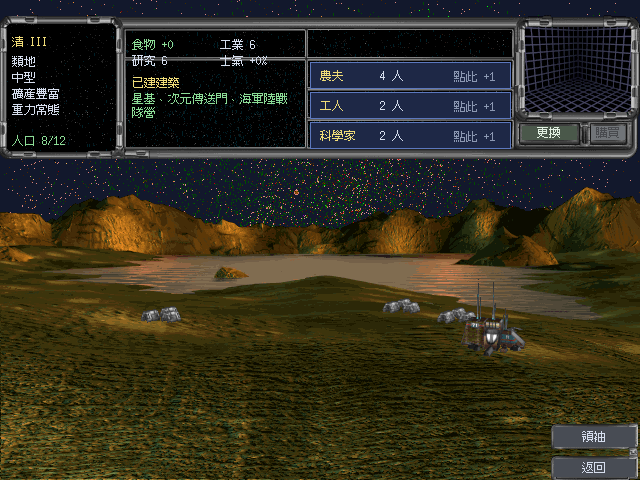
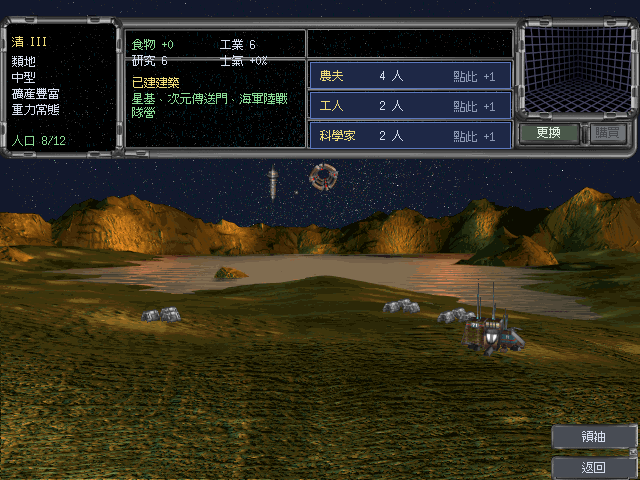
feat(colony): 軌道衛星畫上去了——資產編號那個 +9 漏了會靜默空白
分類 7 的建築(星基 / 戰鬥站 / 星際要塞 / 次元傳送門 / 天網)不進地表格點,
原版把它們丟進 word_19F99C 那份 10 格的清單,由 Draw_Colony_Satellites_
@ 0xBE366 另外畫在軌道上。remake 先前完全沒畫——這顆星有星基與次元傳送門,
畫面上看不到任何東西。

位置整段沒有查表:
    x = 295 + (i 偶數 ? +1 : −1) × i × 50
    y = 162
→ 295 / 245 / 395 / 145 …往兩側交錯。第 7 顆 x = −55 只剩右緣 2px,
所以清單雖有 10 格,看得到的就是前 7 顆(原版本來的裁切)。

⚠ 圖檔編號要經過 sub_BBB9F 的 `loc_BBBAF: add edx, 9`。sub_BE306 算出來的是
0/1/2/3/7,加 9 之後才是 COLONY.LBX 的 9/10/11/12/16。漏掉那個 +9 會去讀
資產 0..4 —— 那五格在檔案裡是零長度的(offset 表開頭六個值都是 0x800),
解出來是空圖,畫面什麼都不會出現而且不會報錯。測試直接把「資產必須落在
9..16」寫成斷言。

抑制規則 sub_BC21B 就是原版的星基 → 戰鬥站 → 星際要塞升級鏈:
星基被 colony+0x13E(戰鬥站)或 +0x15F(星際要塞)壓掉,戰鬥站被要塞壓掉。
0x136+id 是「有沒有這棟」的旗標陣列,兩個位移都對得起來。

順帶把調色盤鏈抽成 colonyBasePalette(buffer0 + colbldg):COLONY.LBX 的
衛星圖完全沒有內嵌盤,整組都得靠基底。

中文模式 17 張逐像素比對:只有殖民地畫面變了。

Changed region(s): [[0.3125, 0.3125, 0.7188, 0.4688], [0.2812, 0.375, 0.3125, 0.4062]]

diff --git a/cmd/moo2/colonysurface.go b/cmd/moo2/colonysurface.go
@@ -349,16 +349,7 @@ func (b *sceneBuilder) colonySurfacePlan(idx int) map[[2]int]int {
 	}
 
 	// 已建建築:依**原版編號順序**逐棟插入(原版的迴圈就是 id 0..48,不是玩家建造順序)。
-	has := map[int]bool{}
-	if idx < len(b.session.ColonyBuildings) {
-		for zh := range b.session.ColonyBuildings[idx] {
-			if bd, ok := gamedata.BuildingByNameZH(zh); ok {
-				if id, ok := origBuildingID[bd.NameEN]; ok {
-					has[id] = true
-				}
-			}
-		}
-	}
+	has := b.colonyOrigBuildingIDs(idx)
 	for id := 1; id <= 48; id++ {
 		if !has[id] || origBuildingCategory[id] == 7 {
 			continue // 分類 7 = 軌道衛星,不畫在地表
@@ -380,6 +371,22 @@ func (b *sceneBuilder) colonySurfacePlan(idx int) map[[2]int]int {
 		}
 	}
 	return plan
+}
+
+// colonyOrigBuildingIDs 把某殖民地已建的建築換成**原版編號**的集合。
+func (b *sceneBuilder) colonyOrigBuildingIDs(idx int) map[int]bool {
+	has := map[int]bool{}
+	if b.session == nil || idx < 0 || idx >= len(b.session.ColonyBuildings) {
+		return has
+	}
+	for zh := range b.session.ColonyBuildings[idx] {
+		if bd, ok := gamedata.BuildingByNameZH(zh); ok {
+			if id, ok := origBuildingID[bd.NameEN]; ok {
+				has[id] = true
+			}
+		}
+	}
+	return has
 }
 
 // colonyGridKey 把格陣索引換回 (a, b)。原版的元素位址是 `colony_bldgs[24×a + 4×b]`
@@ -499,7 +506,7 @@ func colonyTerrainVariant(star int) int {
 // drawColonyTerrain 畫地表兩層。取不到資產就整張留空(不再自畫格線佔位——
 // 原版地表上**沒有格線**,格點是隱形的)。
 func (b *sceneBuilder) drawColonyTerrain(dst *ebiten.Image, idx int) {
-	if im := b.colonyScreenImage(colTerrainSkyLBX, colTerrainSkyAsset); im != nil {
+	if im := b.colonyScreenImage(colTerrainSkyLBX, colTerrainSkyAsset, colonyBasePalette); im != nil {
 		dst.DrawImage(im, &ebiten.DrawImageOptions{})
 	}
 	sess := b.session
@@ -511,14 +518,17 @@ func (b *sceneBuilder) drawColonyTerrain(dst *ebiten.Image, idx int) {
 		return
 	}
 	asset := climate*colTerrainVariants + colonyTerrainVariant(sess.PlayerColonyStarIndex(idx))
-	if im := b.colonyScreenImage(colTerrainLBX, asset); im != nil {
+	if im := b.colonyScreenImage(colTerrainLBX, asset, colonyBasePalette); im != nil {
 		dst.DrawImage(im, &ebiten.DrawImageOptions{})
 	}
 }
 
-// colonyScreenImage 取一張整螢幕底圖並快取。調色盤走 buffer0 基底 + 該圖自己的內嵌範圍
-// (PLANETS 每張只帶 80 色,缺的要基底補,否則裂縫會變成一片洋紅)。
-func (b *sceneBuilder) colonyScreenImage(lbxName string, asset int) *ebiten.Image {
+// colonyScreenImage 解一張殖民地畫面用的圖並快取。
+//
+// 調色盤走「chain 當基底 + 該圖自己的內嵌範圍」:PLANETS 每張只帶 80 色,缺的要基底補,
+// 否則熔岩裂縫會變成一片洋紅(⚠ 與第 29 項那次的洋紅**不同原因**——那次是 index ≥ 0xF0)。
+// COLONY.LBX 的衛星圖完全沒有內嵌盤,整組都得靠 chain。
+func (b *sceneBuilder) colonyScreenImage(lbxName string, asset int, chain paletteChain) *ebiten.Image {
 	key := lbxName + ":" + strconv.Itoa(asset)
 	if im, hit := b.colBldgCache[key]; hit {
 		return im
@@ -528,12 +538,129 @@ func (b *sceneBuilder) colonyScreenImage(lbxName string, asset int) *ebiten.Imag
 	}
 	var img *ebiten.Image
 	if im, err := decodeAsset(b.res, lbxName, asset); err == nil && len(im.Frames) > 0 {
-		if pal, err := resolvePalette(b.res, im, paletteChain{{"buffer0.lbx", 0}}); err == nil {
+		if pal, err := resolvePalette(b.res, im, chain); err == nil {
 			img = ebiten.NewImageFromImage(im.Frames[0].ToRGBADropTranslucent(pal, im.KeyColor()))
 		}
 	}
 	b.colBldgCache[key] = img
 	return img
+}
+
+// colonyBasePalette 是殖民地畫面的調色盤基底:全域基底 + 殖民地美術那組。
+var colonyBasePalette = paletteChain{{"buffer0.lbx", 0}, {colChromePal, 0}}
+
+// --- 軌道衛星 ---
+//
+// 分類 7 的建築**不進地表格點**。`Make_Bldg_Array_For_Colony_` 把它們丟進 `word_19F99C`
+// 那份 10 格的清單(依建築編號遞增附加),由 `Draw_Colony_Satellites_` @ 0xBE366 另外畫。
+//
+// 位置(`Draw_Colony_Satellites_` 尾段,整段沒有查表):
+//
+//	x = 295 + (i 偶數 ? +1 : −1) × i × 50      ; 295 = 0x127、50 = 0x32
+//	y = 162                                    ; 0xA2,固定
+//	Draw(x, y, img)                            ; 左上角對位
+//
+// → 第 0 顆在 295、第 1 顆 245、第 2 顆 395、第 3 顆 145…往兩側交錯散開。
+// 第 7 顆起 x 已是負的(−55),原版清單雖有 10 格但實際塞得下約 7 顆。
+//
+// 圖檔(`sub_BE306` 的比較鏈 + `sub_BBB9F` 的 `loc_BBBAF: add edx, 9`):
+//
+//	⚠ 那個 **+9 不能漏**。`sub_BE306` 算出來的是 0/1/2/3/7,加 9 之後才是真正的資產編號。
+//	漏掉會去讀 COLONY.LBX 資產 0..4 —— 那五格在檔案裡是**零長度**的(offset 表全是 0x800),
+//	解出來是空圖,畫面上什麼都不會出現,而且不會報錯。
+//
+//	| 建築 | 編號 | sub_BE306 | COLONY.LBX 資產 |
+//	|---|---|---|---|
+//	| 星際要塞 Star Fortress | 41 | 0 | 9 |
+//	| 戰鬥站 Battlestation | 8 | 1 | 10 |
+//	| 星基 Star Base | 40 | 2 | 11 |
+//	| 次元傳送門 Dimensional Portal | 14 | 3 | 12 |
+//	| 天網 Artemis System Net | 3 | 7 | 16 |
+//
+// 資產 9..16 全是 57×70,尺寸自洽。
+//
+// 抑制規則(`sub_BC21B`,回傳 1 = 這顆不畫)——就是原版的**星基升級鏈**:
+//
+//	星基(40):有戰鬥站(colony+0x13E)或星際要塞(colony+0x15F)就不畫
+//	戰鬥站(8):有星際要塞就不畫
+//
+// (`0x136 + id` 是「這個殖民地有沒有這棟」的旗標陣列,0x136+8 = 0x13E、0x136+41 = 0x15F,
+// 兩個位移都對得起來。)
+const (
+	colonySatLBX   = "colony.lbx"
+	colonySatBaseX = 295
+	colonySatStepX = 50
+	colonySatY     = 162
+	colonySatSlots = 10 // word_19F99C 的長度(memset 20 bytes)
+)
+
+// origSatelliteAsset 分類 7 的建築編號 → COLONY.LBX 資產(已含 +9,見上方 ⚠)。
+var origSatelliteAsset = map[int]int{
+	41: 9,  // 星際要塞
+	8:  10, // 戰鬥站
+	40: 11, // 星基
+	14: 12, // 次元傳送門
+	3:  16, // 天網
+}
+
+// colonySatellites 回傳要畫的衛星編號,順序 = 建築編號遞增(原版迴圈的順序)。
+func (b *sceneBuilder) colonySatellites(idx int) []int {
+	return colonySatelliteList(b.colonyOrigBuildingIDs(idx))
+}
+
+// colonySatelliteX 回傳第 i 顆衛星的左上角 x(見上方公式)。
+func colonySatelliteX(i int) int {
+	if i%2 != 0 {
+		return colonySatBaseX - i*colonySatStepX
+	}
+	return colonySatBaseX + i*colonySatStepX
+}
+
+// colonySatelliteList 是 colonySatellites 的純函式部分(方便直接測抑制規則)。
+func colonySatelliteList(has map[int]bool) []int {
+	var out []int
+	for id := 1; id <= 48; id++ {
+		if !has[id] || origBuildingCategory[id] != 7 {
+			continue
+		}
+		switch id {
+		case 40: // 星基:被戰鬥站或星際要塞取代
+			if has[8] || has[41] {
+				continue
+			}
+		case 8: // 戰鬥站:被星際要塞取代
+			if has[41] {
+				continue
+			}
+		}
+		if len(out) >= colonySatSlots {
+			break
+		}
+		out = append(out, id)
+	}
+	return out
+}
+
+// drawColonySatellites 把衛星畫在軌道上。原版的次序是建築之後(`Draw_Colony_Screen_`:
+// `Draw_Colony_Bldgs` → `Draw_Colony_Satellites`)。
+func (b *sceneBuilder) drawColonySatellites(dst *ebiten.Image, idx int) {
+	for i, id := range b.colonySatellites(idx) {
+		asset, ok := origSatelliteAsset[id]
+		if !ok {
+			continue
+		}
+		x := colonySatelliteX(i)
+		if x <= -57 || x >= moo2ScreenW {
+			continue // 原版也是這樣被畫布裁掉,不特別處理
+		}
+		im := b.colonyScreenImage(colonySatLBX, asset, colonyBasePalette)
+		if im == nil {
+			continue
+		}
+		op := &ebiten.DrawImageOptions{}
+		op.GeoM.Translate(float64(x), colonySatY)
+		dst.DrawImage(im, op)
+	}
 }
 
 // colonyBuildingImage 取(建築編號, 格)對應的那張**已畫好位置**的 640×480 稀疏圖,

diff --git a/cmd/moo2/colonysurface_test.go b/cmd/moo2/colonysurface_test.go
@@ -353,3 +353,86 @@ func newSurfaceTestBuilder(t *testing.T) *sceneBuilder {
 	}
 	return &sceneBuilder{session: sess, lang: i18n.Traditional}
 }
+
+// --- 軌道衛星 ---
+
+// TestOrigSatelliteAssetsCoverEveryCategory7:分類 7 的建築編號與衛星圖對照要**互相涵蓋**。
+// 少一筆 → 那顆衛星在畫面上悄悄消失(不會報錯);多一筆 → 會去畫一棟其實在地表的建築。
+func TestOrigSatelliteAssetsCoverEveryCategory7(t *testing.T) {
+	for id := 1; id <= 48; id++ {
+		_, hasSprite := origSatelliteAsset[id]
+		isSat := origBuildingCategory[id] == 7
+		if isSat && !hasSprite {
+			t.Errorf("建築 %d 是分類 7 卻沒有衛星圖", id)
+		}
+		if hasSprite && !isSat {
+			t.Errorf("建築 %d 有衛星圖卻不是分類 7", id)
+		}
+	}
+	// ⚠ 資產編號含 `sub_BBB9F` 的 +9。少了它會去讀 COLONY.LBX 資產 0..4——
+	// 那五格在檔案裡是零長度的,解出來是空圖,畫面什麼都不會出現而且不會報錯。
+	for id, asset := range origSatelliteAsset {
+		if asset < 9 || asset > 16 {
+			t.Errorf("建築 %d 的衛星圖資產 %d 不在 9..16(是不是漏了 +9?)", id, asset)
+		}
+	}
+}
+
+// TestColonySatelliteUpgradeChain:星基 → 戰鬥站 → 星際要塞 的升級鏈,
+// 抄自 `sub_BC21B`(回傳 1 = 這顆不畫)。三顆同時存在時只該看到最高階那顆。
+func TestColonySatelliteUpgradeChain(t *testing.T) {
+	set := func(ids ...int) map[int]bool {
+		m := map[int]bool{}
+		for _, id := range ids {
+			m[id] = true
+		}
+		return m
+	}
+	eq := func(got []int, want ...int) bool {
+		if len(got) != len(want) {
+			return false
+		}
+		for i := range got {
+			if got[i] != want[i] {
+				return false
+			}
+		}
+		return true
+	}
+	cases := []struct {
+		name string
+		have map[int]bool
+		want []int
+	}{
+		{"只有星基", set(40), []int{40}},
+		{"星基+戰鬥站 → 只剩戰鬥站", set(40, 8), []int{8}},
+		{"星基+戰鬥站+要塞 → 只剩要塞", set(40, 8, 41), []int{41}},
+		{"星基+要塞(跳過戰鬥站)→ 只剩要塞", set(40, 41), []int{41}},
+		{"天網與傳送門不受升級鏈影響", set(3, 14, 40, 41), []int{3, 14, 41}},
+		{"地表建築不進清單", set(22, 35), nil},
+	}
+	for _, c := range cases {
+		if got := colonySatelliteList(c.have); !eq(got, c.want...) {
+			t.Errorf("%s:得到 %v,want %v", c.name, got, c.want)
+		}
+	}
+}
+
+// TestColonySatellitePositionsMatchOriginal:x = 295 + (i 偶數 ? +1 : −1) × i × 50。
+// 釘住前幾顆的絕對座標——寫錯正負或步距,衛星會擠成一團或飛出畫面。
+func TestColonySatellitePositionsMatchOriginal(t *testing.T) {
+	want := []int{295, 245, 395, 145, 495, 45, 595, -55}
+	for i, w := range want {
+		if got := colonySatelliteX(i); got != w {
+			t.Errorf("第 %d 顆 x = %d,want %d", i, got, w)
+		}
+	}
+	// 第 7 顆在 x = −55,57 寬的圖只剩右緣 2px 在畫面內;第 8 顆 x = 695 整個在右外。
+	// 原版清單雖有 10 格,實際看得到的就是前 7 顆——這是原版本來的裁切,不特別處理。
+	if x := colonySatelliteX(7); x+57 > 5 {
+		t.Errorf("第 7 顆右緣 %d 應該幾乎全在畫布左外", x+57)
+	}
+	if x := colonySatelliteX(8); x < moo2ScreenW {
+		t.Errorf("第 8 顆 x = %d 應該整個在畫布右外", x)
+	}
+}

diff --git a/cmd/moo2/colonyscreen.go b/cmd/moo2/colonyscreen.go
@@ -207,6 +207,7 @@ func (b *sceneBuilder) drawColonyScreen(dst *ebiten.Image, idx int) {
 		dst.DrawImage(im, &ebiten.DrawImageOptions{})
 	}
 	b.drawColonyBuildings(dst, idx)
+	b.drawColonySatellites(dst, idx)
 	b.drawColonyTopBar(dst, idx, c)
 
 	// 兩顆鈕的英文(LEADERS / RETURN)烘在框架圖上,照既有做法擦底疊中文。

diff --git a/docs/re/01-gap-report.md b/docs/re/01-gap-report.md
@@ -1156,14 +1156,44 @@ remake 的新遊戲流程順序與此一致;`Main_Screen_ → Do_Colony_Screen_`
 
     原版沒有格線,佔位用的淡綠格線已移除。
 
+    ### 軌道衛星(`Draw_Colony_Satellites_` @ 0xBE366,同日補上)
+
+    分類 7 的建築不進地表格點,`Make_Bldg_Array_For_Colony_` 把它們丟進 `word_19F99C`
+    那份 10 格的清單(依建築編號遞增附加),由這支另外畫。位置整段沒有查表:
+
+    ```
+    x = 295 + (i 偶數 ? +1 : −1) × i × 50     ; 295 = 0x127、50 = 0x32
+    y = 162                                   ; 0xA2,固定
+    ```
+
+    → 295 / 245 / 395 / 145 / 495 / 45 / 595 …往兩側交錯散開。第 7 顆 x = −55 只剩右緣 2px,
+    所以清單雖有 10 格,看得到的就是前 7 顆(原版本來的裁切)。
+
+    圖檔來自 `sub_BE306` 的比較鏈,但**編號要經過 `sub_BBB9F` 的 `loc_BBBAF: add edx, 9`**:
+
+    | 建築 | 編號 | `sub_BE306` | COLONY.LBX 資產 |
+    |---|---|---|---|
+    | 星際要塞 Star Fortress | 41 | 0 | 9 |
+    | 戰鬥站 Battlestation | 8 | 1 | 10 |
+    | 星基 Star Base | 40 | 2 | 11 |
+    | 次元傳送門 Dimensional Portal | 14 | 3 | 12 |
+    | 天網 Artemis System Net | 3 | 7 | 16 |
+
+    ⚠ **那個 +9 不能漏。** 漏掉會去讀 COLONY.LBX 資產 0..4,而那五格在檔案裡是**零長度**的
+    (offset 表開頭六個值都是 0x800),解出來是空圖 —— 畫面上什麼都不會出現,而且**不會報錯**。
+    資產 9..16 全是 57×70,尺寸自洽;測試 `TestOrigSatelliteAssetsCoverEveryCategory7`
+    直接把「資產必須落在 9..16」寫成斷言。
+
+    抑制規則 `sub_BC21B`(回傳 1 = 這顆不畫)就是原版的**星基升級鏈**:
+    星基(40)有戰鬥站(colony+0x13E)或星際要塞(colony+0x15F)就不畫;
+    戰鬥站(8)有星際要塞就不畫。`0x136 + id` 是「這個殖民地有沒有這棟」的旗標陣列,
+    0x136+8 = 0x13E、0x136+41 = 0x15F,兩個位移都對得起來。
+
     ### 仍是缺口
 
-    - **軌道衛星沒畫**:分類 7 的建築(星基 / 次元傳送門 / 天網 / 星際要塞 / 戰鬥站)進的是
-      `word_19F99C` 那份清單,由 `Draw_Colony_Satellites_` 另外畫在軌道上。remake 目前
-      **完全沒畫**——這顆星有星基與次元傳送門,畫面上看不到任何東西。
-      幾何在 `sub_BDFB9`(x 以 `±i×50 + 295` 排開、y 基準 162),暫存器別名很重,還沒解乾淨。
     - **擺放的最後一段微調**沒做(見上表)。影響只在房屋彼此的相對位置。
     - **道路** `Draw_Road_List` 沒畫。
+    - 衛星的**選取態閃爍**(`sub_BE271` 那條分支)沒做——remake 沒有點選衛星的互動。
 
     ### 驗證
 

diff --git a/WORKLIST.md b/WORKLIST.md
@@ -172,8 +172,12 @@
   - ⚠ **抓到一個沒有症狀的軸向錯誤**:格陣索引與角點表對調 → 整張佈局鏡射,徵狀只有
     「建築擠在遠端」。定案證據是 `Add_Bldg_Fields_` 同時用 (v1,v2) 當位址與座標參數。
     護欄 `TestColonyGridKeyMatchesOriginalAddressing`。
-  - 仍缺:**軌道衛星沒畫**(星基 / 次元傳送門這類在畫面上完全看不到)、道路沒畫、
-    地形變體那一欄用 PRNG 代替原版的存檔欄位(不是真值,已標明)。
+  - **軌道衛星**(`Draw_Colony_Satellites_` @ 0xBE366):x = 295 ± i×50、y = 162,
+    圖是 COLONY.LBX 9/10/11/12/16。⚠ 編號要經過 `sub_BBB9F` 的 `add edx, 9` —— 漏掉會去讀
+    資產 0..4,那五格在檔案裡是**零長度**的,畫面上什麼都不會出現而且不報錯。
+    抑制規則 `sub_BC21B` 就是原版的星基 → 戰鬥站 → 星際要塞升級鏈。
+  - 仍缺:道路沒畫、擺放的最後一段隨機微調沒做、地形變體那一欄用 PRNG 代替原版的存檔欄位
+    (不是真值,已標明)。
   - IDA 的 `-Ohexrays` 這一輪起不來(error code 4,兩次),整項改用手讀 `.asm` 完成。
 - **兩個零值陷阱**(都加了回歸測試):`TechLevel` 零值 = 曲速前 → 舊存檔艦隊全凍住;
   `i18n.English` 是 `Lang` 的零值 → 忘了設 lang 的建構路徑會靜默變英文。
